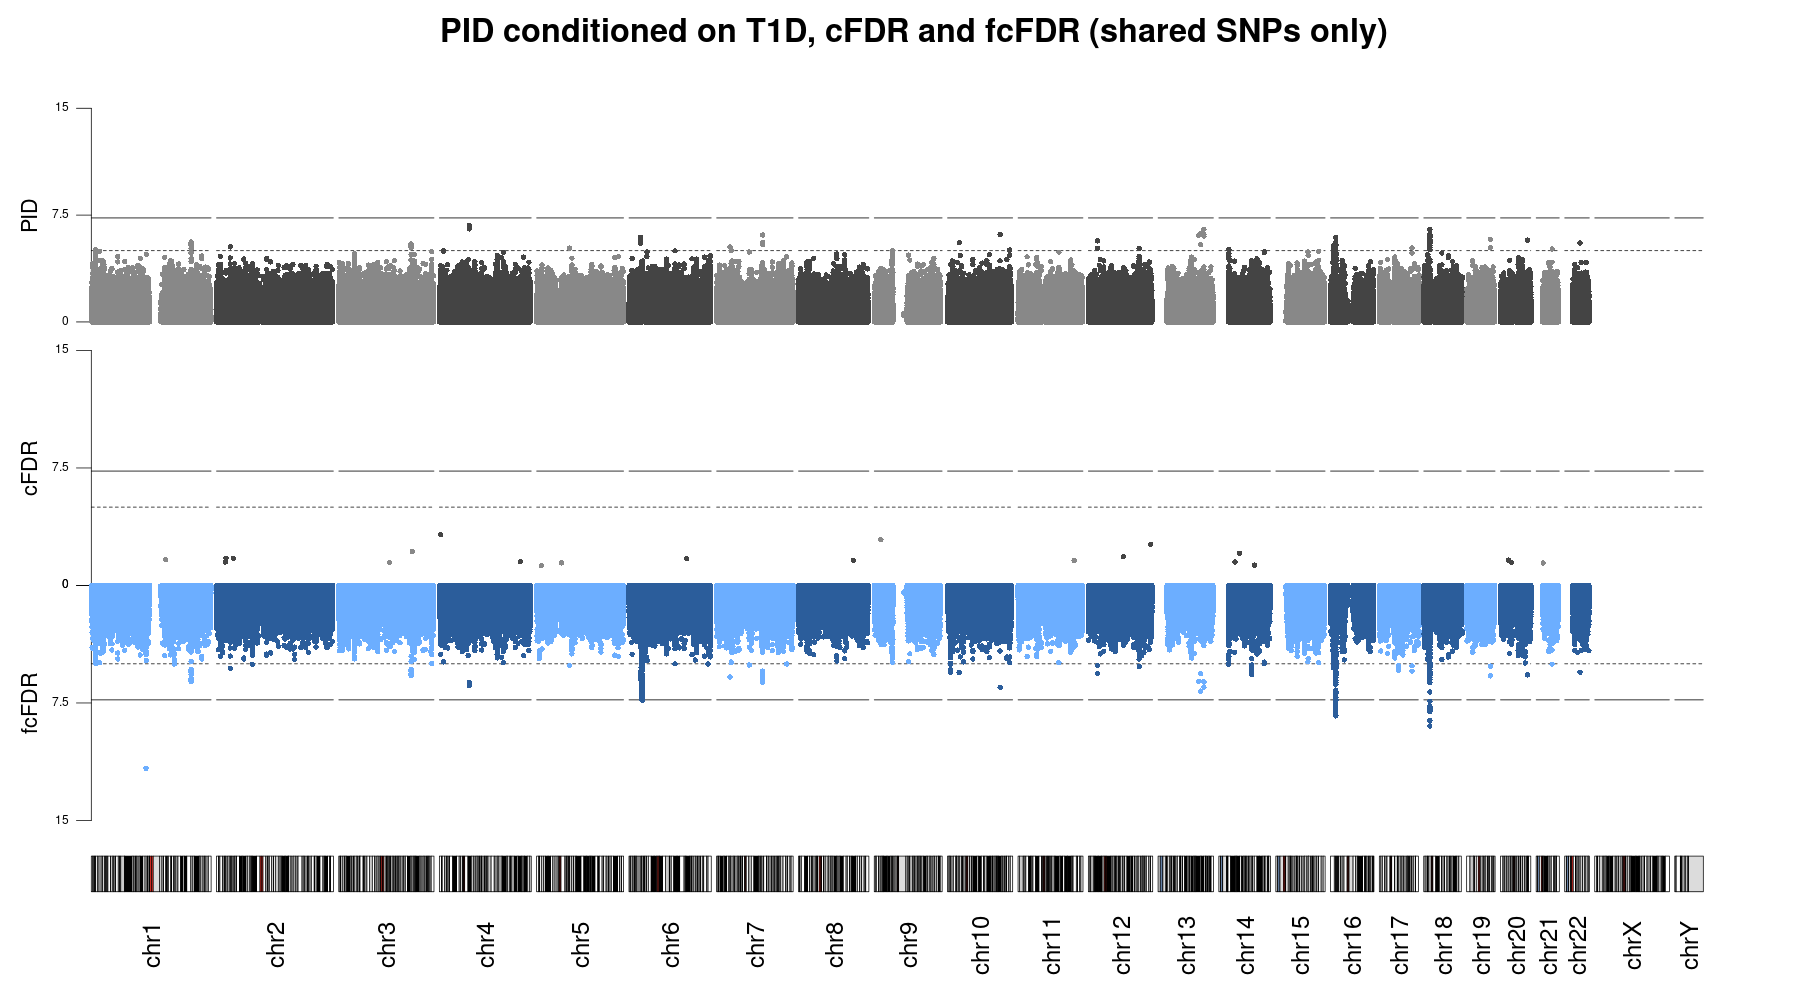
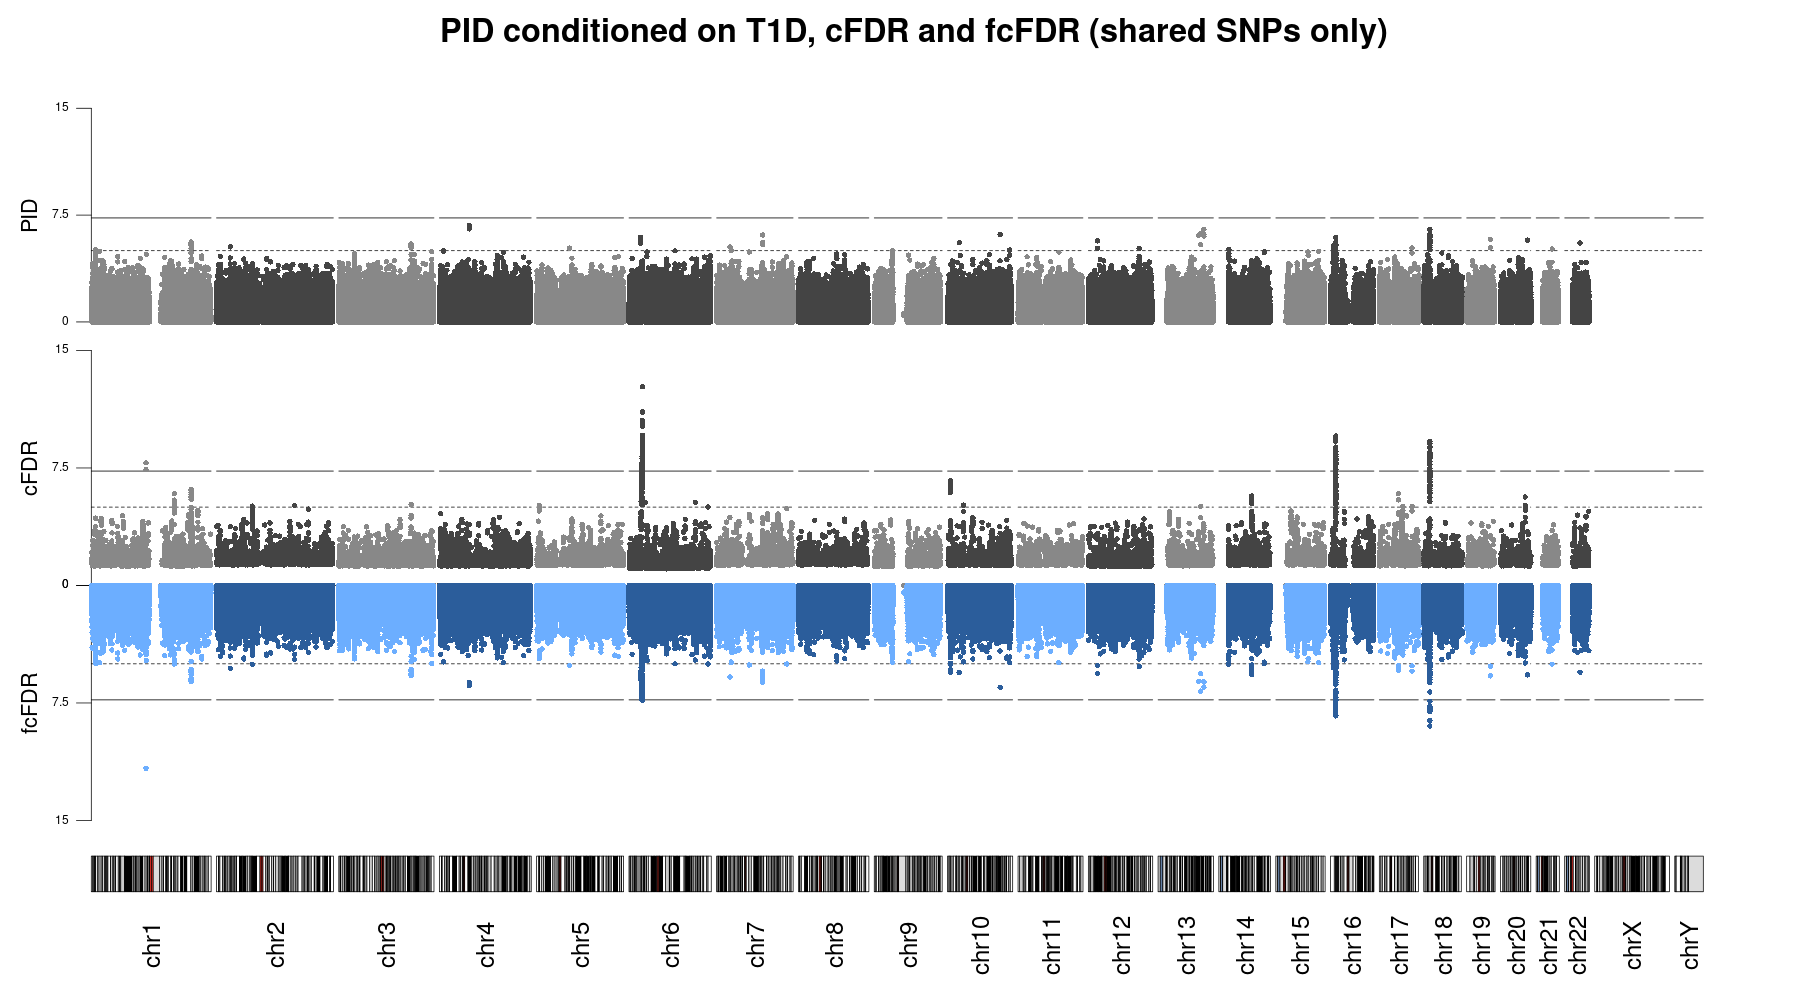
Fixed plot that was awry, tabulated cFDR results

Changed region(s): [[0.0311, 0.465, 0.9022, 0.589]]

diff --git a/entries/070421/070421.md b/entries/070421/070421.md
@@ -2,8 +2,8 @@
 
 ## TODOs 
 
-1. Try supplying as auxiliary Z-values obtained with `qnorm(p/2)` rather than `-qnorm(p/2)`
-2. How many SNPs are we losing in PID joins? (Recall in particular T1D-PID join loses none due to MAF join)
+1. Try supplying auxiliary Z-values obtained with `qnorm(p/2)` rather than `-qnorm(p/2)`
+2. How many SNPs are we losing in PID joins? 
 3. Use hg38 1000G data for LDAK, see if it improves number of SNPs retained
 
 ## What I've done
@@ -22,30 +22,38 @@ The 'allergy phenotype' (allergic rhinitis, eczema, and asthma) GWAS provided th
 
 [Manhattans with PID, IMD auxiliary values, and fcFDR results](/entries/070421/aux_vis_manhattans.html)
 
+The sign of Spearman's rank correlation between the principal and auxiliary values (in the independent subset of SNPs) does not seem to predict the no. of newly significant loci or the degree of boosting. Seems a bit daft to think it would do so in any precise way, of course, but I thought I would check.
+
+ | Data set | Spearman's corr. | Pearson's corr. | # newly significant signals in fcFDR (see above) | " in cFDR |
+ |----------|------------------|-----------------|--------------------------------------------------|-----------|
+ | T1D      |           0.0028 |          0.0039 |                                                3 | 3         |
+ | Asthma   |          -0.0006 |          0.0001 |                                                0 |  1        |
+ | UC       |           0.0018 |          0.0018 |                                                1 |       1   |
+ | CD       |           0.0008 |          0.0001 |                                                0 |    1      |
+ | SLE      |           0.0017 |          0.0041 |                                                1 |  3        |
+ | Allergy  |          -0.0008 |         -0.0001 |                                                4 | 2         |
+ | CAD      |          -0.0018 |         -0.0009 |                                                0 |       0   |
+ | RA       |           0.0021 |          0.0037 |                                                1 |  3        |
+
+The cFDR signals above are counted in the whole set of SNPs, not just those shared with the corresponding fcFDR set (see below). I ignored signals which appeared to come from the residue of the excised MHC; I will probably adopt a more stringent interval for removing it, 25-46Mb as used in Thaventhiran et al. (2020).
+
+The next step is to run fcFDR iteratively on the IMDs. 
+
 ### Comparing these new results to the old cFDR results
 
-How do these new results compare to the cFDR results? Note that in the following plots, the PID track is drawn using the principal p-values *retained* in the fcFDR data set in each case, i.e. after the auxiliary-PID, GWAS-LDAK, and GWAS-MAF joins. It is worth pointing out that we lose a trio of highly significant SNPs on chromosome 17 in the fcFDR joins and most of the cFDR ones, too, although one of those SNPs is retained in several of the cFDR data sets.
+How do these new results compare to the cFDR results? 
 
-I produced Manhattans which compare the fcFDR and cFDR results. The second link below depicts these Manhattans after the cFDR results have been downsampled to retain only those SNPs present in the fcFDR set (although the cFDR procedure has had the benefit of those SNPs in the fitting process).
+The second of the links below depicts the results after the cFDR sets have been downsampled to retain only those SNPs present in the fcFDR set (although the cFDR procedure has had the benefit of those SNPs in the fitting process). 
+
+In all plots, the PID track is drawn using the SNPs retained in the fcFDR result set, i.e. after the auxiliary-PID, GWAS-LDAK, and GWAS-MAF joins. It is worth pointing out that we lose a trio of highly significant SNPs on chromosome 17 in the fcFDR joins and most of the cFDR ones, too, although one of those SNPs is retained in several of the cFDR data sets.
 
 [Manhattans comparing fcFDR and cFDR results](/entries/070421/fcfdr_vs_cfdr.html)
 
 [Manhattans comparing fcFDR and cFDR results, shared SNPs only](/entries/070421/fcfdr_vs_cfdr_shared.html)
 
-The sign of Spearman's rank correlation between the principal and auxiliary values (in the independent subset of SNPs) does not seem to predict the no. of newly significant loci or the degree of boosting. Seems a bit daft to think it would do so in any precise way, of course, but I thought I would check.
+These cFDR results were not obtained with the use of weights in the Gaussian mixture fitting procedure, used to estimate `Q | H^0_p`. See the table above for the number of novel signals obtained.
 
- | Data set | Spearman's corr. | Pearson's corr. | # newly significant signals (see above) |
- |----------|------------------|-----------------|-----------------------------------------|
- | T1D   |           0.0028 |          0.0039 |                                       4 |
- | Asthma |          -0.0006 |          0.0001 |                                       0 |
- | UC     |           0.0018 |          0.0018 |                                       1 |
- | CD     |           0.0008 |          0.0001 |                                       0 |
- | SLE   |           0.0017 |          0.0041 |                                       1 |
- | Allergy |          -0.0008 |         -0.0001 |                                       4 |
- | CAD   |          -0.0018 |         -0.0009 |                                       0 |
- | RA     |           0.0021 |          0.0037 |                                       1 |
-
-The next step is to run fcFDR iteratively on the IMDs.
+A fair head-to-head of cFDR and fcFDR requires that I pass the same set of SNPs to both procedures. Doing this shouldn't be too much work and I'm keen to be able to make some more robust pronouncement as to how each performs in this setting.
 
 ### What about the principal trait Z-score transformation?
 
@@ -53,9 +61,9 @@ I earlier transformed the auxiliary p-values with `-qnorm(./2)` as this is the t
 
 However, in the scenario that the principal and auxiliary p-values are positively correlated, i.e. the scenario of 'enrichment', using these divergent transformations will induce a negative correlation between the principal and auxiliary Z-scores: a pair of p-values `(p = 0, q = 0)` would be mapped to `(Inf, -Inf)`. Is this really what we want? Note that the auxiliary Z-scores will still be positively correlated with the principal p-values.
 
-By default, `fcfdr::flexible_cfdr` enforces a positive Spearman's rank correlation in the independent SNP subset between the principal p-values and the auxiliary values by flipping the sign on the latter (in this case, the auxiliary Z-scores; the procedure never actually sees the auxiliary p-values). This is to ensure positive stochastic monotonicity (low p is enriched for low q). My experience thus far, however, is that the value of this correlation tends to be very small and can take both positive and negative values for data sets in which enrichment is equally plausible: for example, both T1D and the allergy ('aster') data sets above yield four novel signals, but the sign of Spearman's rank differs. The results I have obtained so far have had this enforcement turned off.
+By default, `fcfdr::flexible_cfdr` enforces a positive Spearman's rank correlation between the principal p-values and the auxiliary values in the independent subset by flipping the sign on the latter (in this case, the auxiliary Z-scores; the procedure never actually sees the auxiliary p-values). This is to ensure positive stochastic monotonicity (low p is enriched for low q). My experience thus far, however, is that the value of this correlation tends to be very small and can take both positive and negative values for data sets in which enrichment is equally plausible: for example, both T1D and the allergy ('aster') data sets above yield four novel signals, but the sign of Spearman's rank differs. The results I have obtained so far have had this enforcement turned off.
 
-I don't have any answers to this yet. 
+I don't have any answers to this issue yet nor am I sure it is an 'issue' per se.
 
 ### LDAK revisited
 
